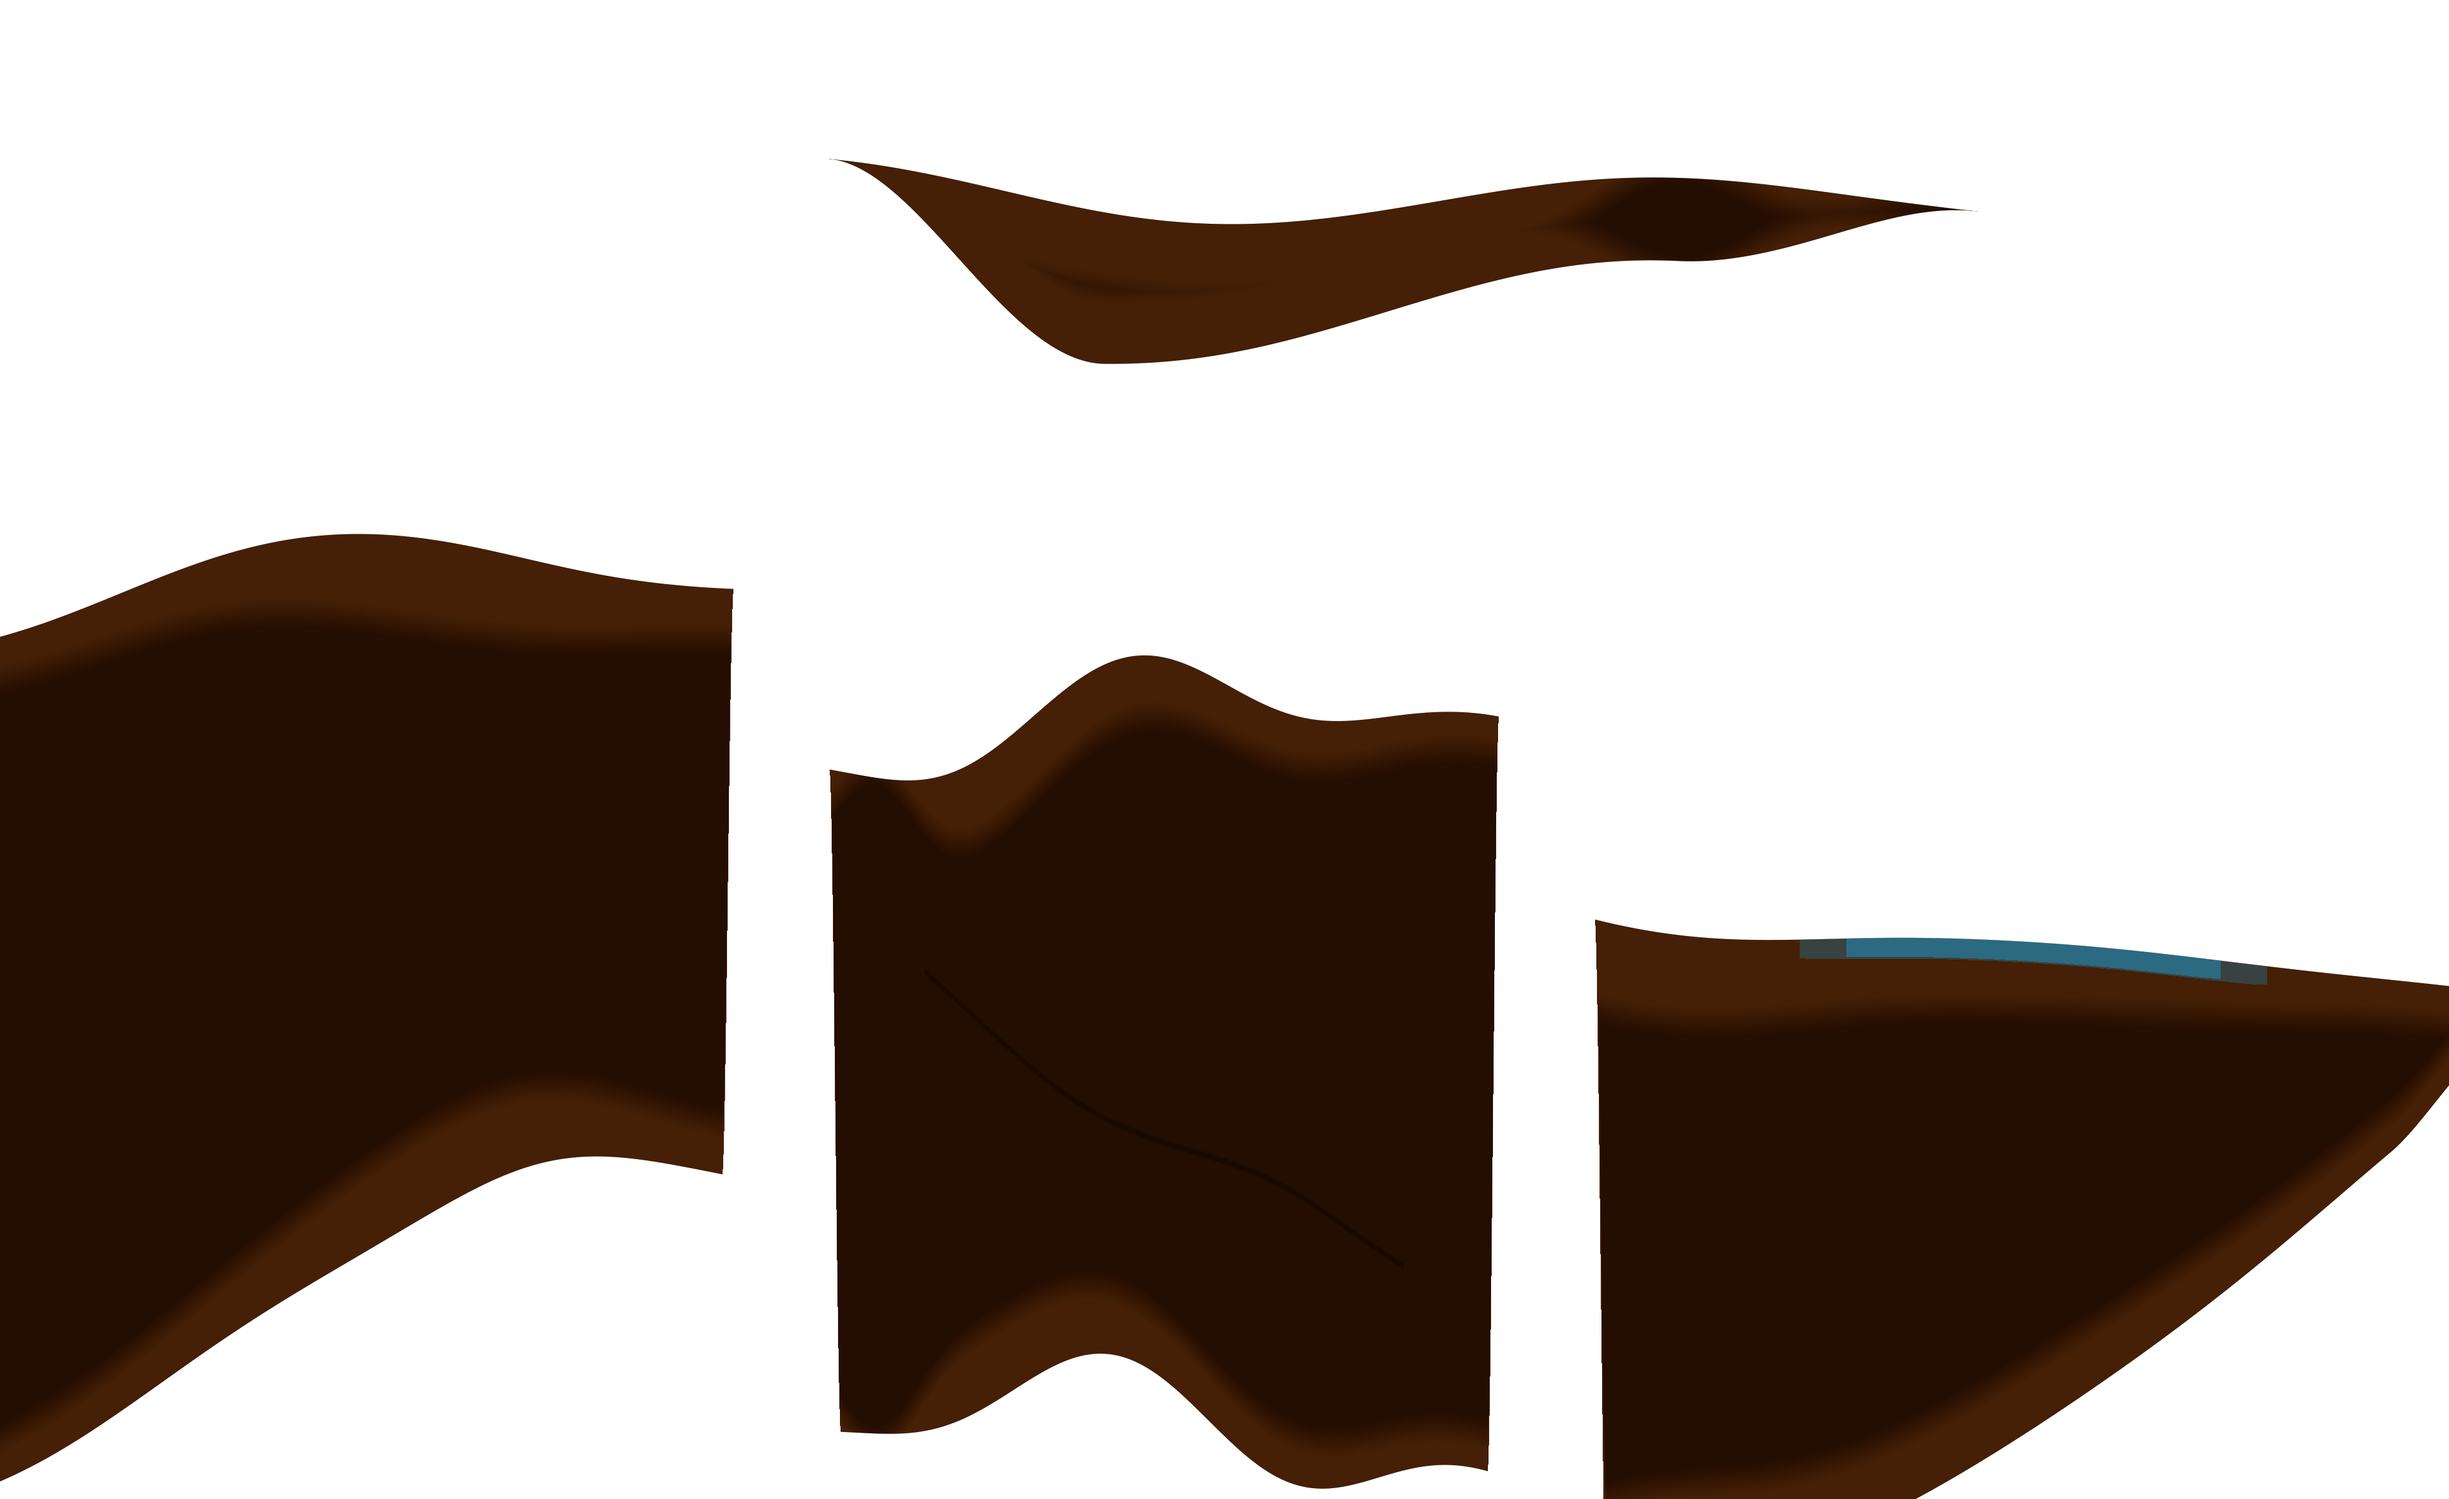
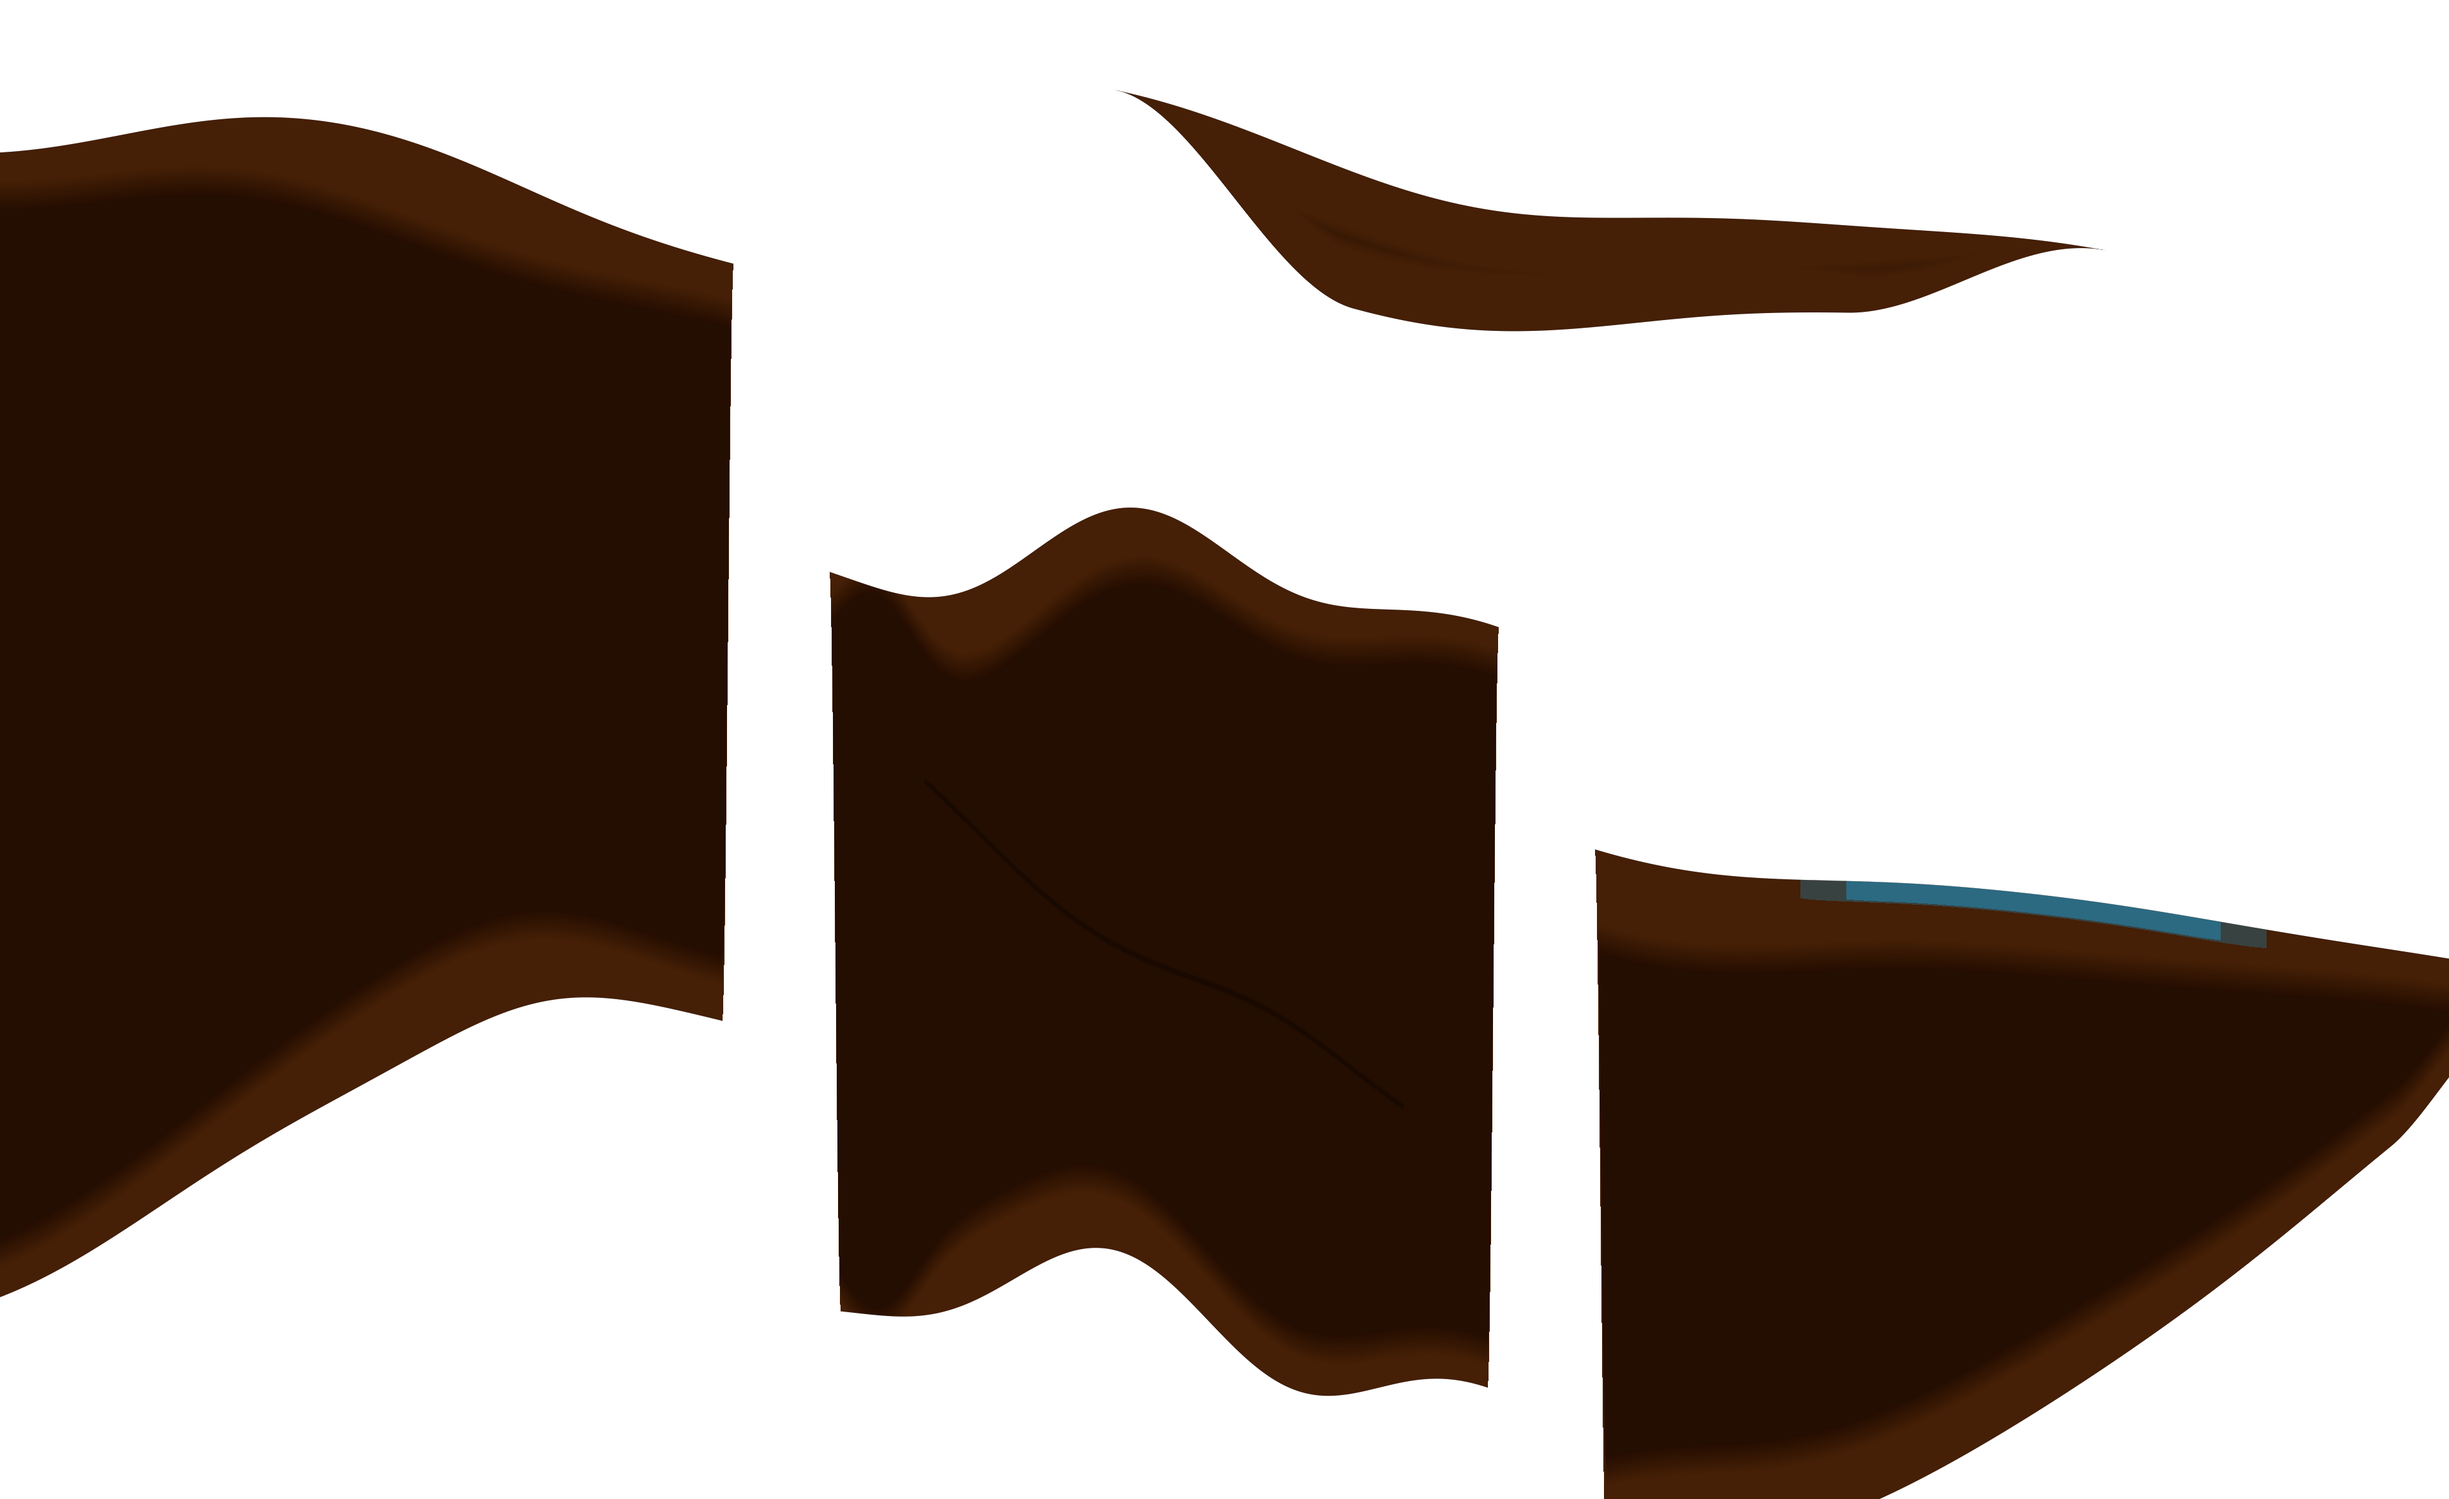
Retter spawn point på bane 5 og 6
Mathias: "Spawn point er feil på bane 5 og 6." Riktig, og verifiseringen
min burde fanget det.

Marken står i del1 = (0,0), og firkant1 er sentrert i (3500, 2300) med
7680 x 4702 enheter mot et bilde på 3840 x 2351 piksler. Marken starter
altså ved bildepunkt (116-170, 26) i flis 1, i alle ni banene. Målte
hvor langt det er ned til bakken derfra:

  bane 2:  111 px =  171 enheter
  bane 3:  118 px =  185
  bane 4:  210 px =  369
  bane 7-9: 153 px = 255
  bane 5:  875 px = 1699   <- min
  bane 6:  930 px = 1809   <- min

Banene mine åpnet med at marken stupte nesten en hel flishøyde før den
traff noe, mens de ekte starter med marken praktisk talt oppå bakken.

Sammenlignet bakkeprofilen i flis 1 og mønsteret er tydelig: de ekte
banene starter høyt, 167-251 piksler, og faller jevnt utover flisa. Bane
4 går 251, 650, 1036, 1320, 1680. Mine startet på 925 og 938, altså midt
på flisa, uten den innledende høyden.

Flis 1 i begge baner er bygget om: bakken starter høyt og faller utover.
Takskåret er flyttet til høyre, der bakken har falt nok til at det er
plass over den. Fallet fra spawn er nå 355 enheter i bane 5 og 373 i
bane 6, mot 171-369 i de ekte.

To runder på det: første forsøk landet på 489 og 721, fordi konturstøyen
legger 90 og 186 piksler oppå tallet jeg setter. Kompenserte for det
målte avviket i stedet for å gjette på nytt.

Spawn-sjekken min spurte bare om det var fritt under marken, ikke hvor
langt ned det var, så 1699 enheter fritt fall besto testen med glans.
[…]

diff --git a/TIL-ORJAN.md b/TIL-ORJAN.md
@@ -2684,3 +2684,57 @@ endrer ingen konklusjon, siden begge de vannrette retningene målte 92 og
 93 prosent, men tabellen i `KODEBASE.md` sa "opp" og "ned" der den
 egentlig bare kunne skille vannrett fra loddrett. Den er rettet til å si
 det den faktisk viser.
+
+## 2026-09-15, spawn point var feil på bane 5 og 6
+
+Mathias: "Spawn point er feil på bane 5 og 6."
+
+Riktig, og verifiseringen min burde fanget det. Den gjorde ikke det
+fordi den stilte feil spørsmål.
+
+Marken står i `del1 = (0,0)`, og `firkant1` er sentrert i (3500, 2300)
+med 7680 x 4702 enheter mot et bilde på 3840 x 2351 piksler. Marken
+starter altså ved bildepunkt (116-170, 26) i flis 1, i alle ni banene.
+
+Målte hvor langt det er ned til bakken derfra:
+
+| bane | første stein | fall |
+|---|---|---|
+| 2 | 111 px | 171 enheter |
+| 3 | 118 px | 185 |
+| 4 | 210 px | 369 |
+| 7, 8, 9 | 153 px | 255 |
+| **5 (min)** | **875 px** | **1699** |
+| **6 (min)** | **930 px** | **1809** |
+
+Banene mine åpnet altså med at marken stupte nesten en hel flishøyde før
+den traff noe, mens de ekte banene starter med marken praktisk talt
+oppå bakken.
+
+Sammenlignet bakkeprofilen i flis 1, og mønsteret er tydelig: de ekte
+banene starter høyt, på 167-251 piksler, og faller jevnt utover flisa.
+Bane 4 går 251 → 650 → 1036 → 1320 → 1680. Mine startet på 925 og 938,
+altså midt på flisa, og hadde ikke den innledende høyden i det hele
+tatt.
+
+Flis 1 i begge baner er bygget om: bakken starter nå høyt og faller
+utover, som i de ekte. Takskåret er flyttet til høyre, der bakken har
+falt nok til at det er plass over den. Fallet fra spawn er nå 355
+enheter i bane 5 og 373 i bane 6, mot 171-369 i de ekte.
+
+To runder: første forsøk landet på 489 og 721, fordi konturstøyen legger
+til 90 og 186 piksler oppå tallet jeg setter. Kompenserte for det målte
+avviket i stedet for å gjette på nytt.
+
+### Hvorfor sjekken ikke fanget det
+
+Spawn-sjekken min spurte bare om det var *fritt* under marken, ikke hvor
+langt ned det var. 1699 enheter fritt fall besto den testen med glans.
+Den måler nå fallhøyden og sammenligner med de ekte banene sitt spenn,
+så en gjentakelse blir fanget.
+
+Verdt å merke seg for øvrig: **bane 1 starter inni stein.** `level1/1.png`
+er en flat plate helt øverst, og marken spawner inne i den. Det er ikke
+noe jeg har innført, det har vært slik hele tiden, og det er grunnen til
+at den flisa aldri ble brukt da bane 5/6 var satt sammen av ekte fliser.
+Jeg har ikke rørt det, men si fra om du vil at jeg skal se på det.

diff --git a/KODEBASE.md b/KODEBASE.md
@@ -606,8 +606,23 @@ bekreftet mot bane 3 og 4 sine egne shapedefs:
 og hjørnene må ha positiv signert flate (alle 400 undersøkte fixtures i
 `lib/shapedefs4.lua` har det).
 
-**Målt spillbarhet:** takhøyde 852-1676 enheter, fall mellom fliser
-1722-4523 (mot 673-5244 i bane 1-4), spawn har 893/910 px fritt fall,
+**Spawn.** Marken står i `del1 = (0,0)`, og `firkant1` er sentrert i
+(3500, 2300) med 7680 x 4702 enheter mot et bilde på 3840 x 2351 px.
+Marken starter derfor ved bildepunkt **(116-170, 26)** i flis 1, i alle
+ni banene. Flis 1 må ha bakke rett under der: de ekte banene har den
+111-210 px nede, altså 171-369 enheters fall. Første utgave av bane 5/6
+hadde 1699 og 1809, og banen åpnet med at marken stupte nesten en hel
+flishøyde (meldt av Mathias 2026-09-15). Rettet, nå 355 og 373.
+
+Mønsteret i flis 1 er: bakken starter høyt (167-251 px) og faller jevnt
+utover flisa. Bane 4 går 251 → 650 → 1036 → 1320 → 1680.
+
+**NB:** `level1/1.png` er en flat plate helt øverst, så **bane 1 spawner
+marken inni stein.** Det er en gammel feil, ikke innført av noen av
+endringene i 2026-09-15, men den er verdt å vite om.
+
+**Målt spillbarhet bane 5/6:** takhøyde 852-1676 enheter, fall mellom
+fliser 1722-4523 (mot 673-5244 i bane 1-4), spawn-fall 355/373,
 dødslinje-klaring 600-632, hull i gulvet 186-414 enheter.
 
 Bildene er lagret som palett-PNG med egen gjennomsiktighet per indeks,
